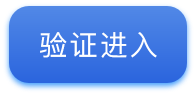
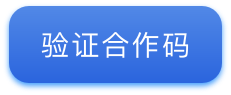
123123

Changed region(s): [[0.1837, 0.3368, 0.8265, 0.6105], [0.8571, 0.0632, 0.9796, 0.9053], [0.0306, 0.0632, 0.1531, 0.9053]]

diff --git a/src/router/permission.js b/src/router/permission.js
@@ -58,9 +58,9 @@ router.beforeEach((to, from, next) => {
         let obj = {}
         arr.map(p1 => { obj[p1.split('=')[0]] = p1.split('=')[1] })
         // 正式
-        // if (obj.view != undefined) return window.location.href = `https://open.weixin.qq.com/connect/oauth2/authorize?appid=wx7e6adc273dcd3c10&redirect_uri=http://${window.location.host}/index.html&response_type=code&state=${obj.view.slice(0, -2)}&scope=snsapi_base&%23wechat_redirect`
+        if (obj.view != undefined) return window.location.href = `https://open.weixin.qq.com/connect/oauth2/authorize?appid=wx7e6adc273dcd3c10&redirect_uri=http://${window.location.host}/index.html&response_type=code&state=${obj.view.slice(0, -2)}&scope=snsapi_base&%23wechat_redirect`
         // 测试
-        if (obj.view != undefined) return window.location.href = `https://open.weixin.qq.com/connect/oauth2/authorize?appid=wxf2dbc13fb3d19700&redirect_uri=http://${window.location.host}/index.html&response_type=code&state=${obj.view.slice(0, -2)}&scope=snsapi_base&%23wechat_redirect`
+        // if (obj.view != undefined) return window.location.href = `https://open.weixin.qq.com/connect/oauth2/authorize?appid=wxf2dbc13fb3d19700&redirect_uri=http://${window.location.host}/index.html&response_type=code&state=${obj.view.slice(0, -2)}&scope=snsapi_base&%23wechat_redirect`
         let toArr = ['fromView', 'poliList', 'BusService']
         if (obj.state.slice(0, -2) === 'BusService') return next(`BusService?code=${obj.code}`)
         if (toArr.indexOf(obj.state.slice(0, -2)) < 0) return next(obj.state.slice(0, -2))

diff --git a/src/components/business/BusService.vue b/src/components/business/BusService.vue
@@ -22,9 +22,9 @@
             <img class="btn" @click="path" src="@/assets/bus_button.png" alt="">
         </div>
         <div class="tagBox">推荐码获取方式：1.联系我司区域业务顾问获取；2.联系本平台客服；<br/>（若上述途径无法解决，拨打合作专员电话13386107953）</div> -->
-        <div class="title">输入机构码验证进入</div>
+        <div class="title">输入合作码</div>
         <div class="fromBox">
-            <input class="inp" type="text" v-model="code" placeholder="请输入所在机构码">
+            <input class="inp" type="text" v-model="code" placeholder="请输入合作码">
             <img class="btn" @click="path" src="@/assets/bus_button.png" alt="">
         </div>
         <!-- <div class="tagBox">推荐码获取方式：1.联系我司区域业务顾问获取；2.联系本平台客服；（若上述途径无法解决，拨打合作专员电话：13386107953）</div> -->
@@ -194,7 +194,7 @@ export default {
     // }
     .fromBox{
         text-align: center;
-        .btn{ width: 196px; height: 95px; margin-left: 29px; }
+        .btn{ width: 231px; height: 95px; }
         .inp{
             vertical-align: top;
             margin-top: 6px;

diff --git a/src/api/index.js b/src/api/index.js
@@ -1,6 +1,6 @@
 // const PATH = 'http://ywdapi.programdoglovelaugh.top'
-// const PATH = 'http://api.oned-medical.com' // 正式
-const PATH = 'http://ywd.oned-medical.com' // 测试
+const PATH = 'http://api.oned-medical.com' // 正式
+// const PATH = 'http://ywd.oned-medical.com' // 测试
 
 // const PATH = '/api'
 import axios from 'axios'
